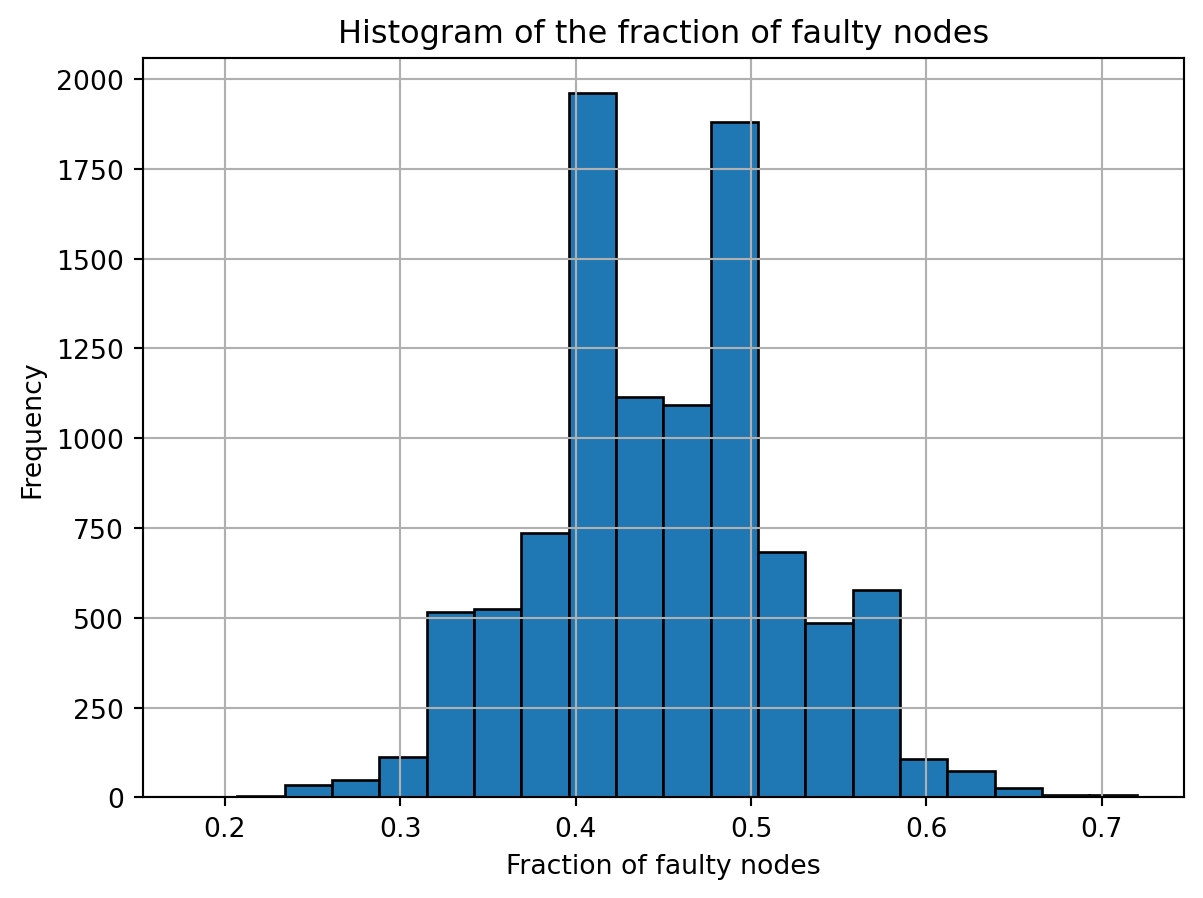
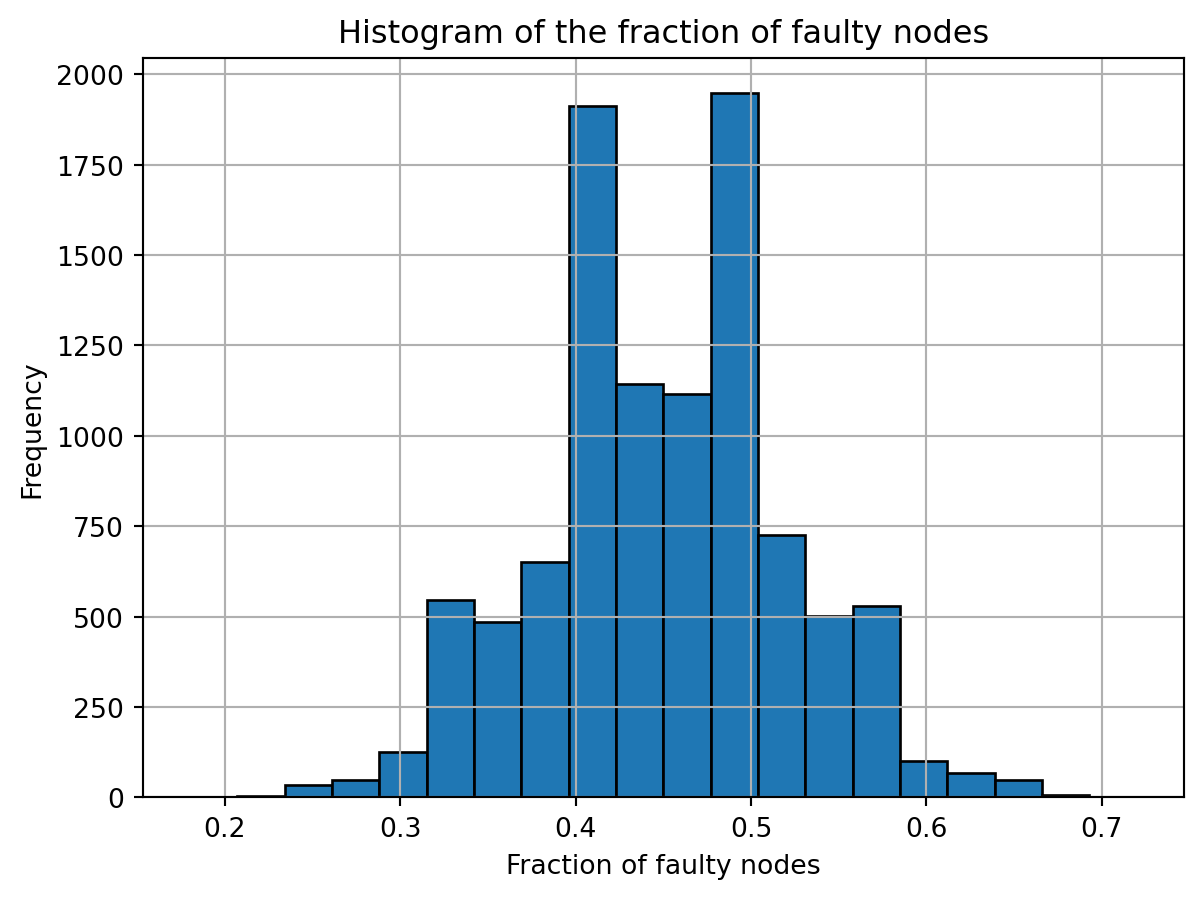
Add files via upload

diff --git a/05-LongestChain.html b/05-LongestChain.html
@@ -630,7 +630,7 @@ Case ii) is essentially a generalization of case i): suppose that the integer $K
 </ul>
 <p>Can we turn this “on expectation” statement into a “with high probability” statement? To gain some intuition, you are invited to experiment with different values of <span class="math inline">\alpha</span> and <span class="math inline">K</span>, using the Python code snippets below.</p>
 <p>To create one such leader sequence, use the following code:</p>
-<div id="76692a7b" class="cell" data-execution_count="1">
+<div id="a20cfba8" class="cell" data-execution_count="1">
 <details class="code-fold">
 <summary>Code</summary>
 <div class="sourceCode cell-code" id="cb2"><pre class="sourceCode python code-with-copy"><code class="sourceCode python"><span id="cb2-1"><a href="#cb2-1" aria-hidden="true" tabindex="-1"></a><span class="im">import</span> numpy <span class="im">as</span> np</span>
@@ -652,7 +652,7 @@ Case ii) is essentially a generalization of case i): suppose that the integer $K
 <span id="cb2-17"><a href="#cb2-17" aria-hidden="true" tabindex="-1"></a>    <span class="cf">return</span> samples</span></code><button title="Copy to Clipboard" class="code-copy-button"><i class="bi"></i></button></pre></div>
 </details>
 </div>
-<div id="b5e2f87b" class="cell" data-execution_count="2">
+<div id="1bf22ee8" class="cell" data-execution_count="2">
 <div class="sourceCode cell-code" id="cb3"><pre class="sourceCode python code-with-copy"><code class="sourceCode python"><span id="cb3-1"><a href="#cb3-1" aria-hidden="true" tabindex="-1"></a><span class="co"># Example usage:</span></span>
 <span id="cb3-2"><a href="#cb3-2" aria-hidden="true" tabindex="-1"></a>K <span class="op">=</span> <span class="dv">10</span>      <span class="co"># number of leaders</span></span>
 <span id="cb3-3"><a href="#cb3-3" aria-hidden="true" tabindex="-1"></a>alpha <span class="op">=</span> <span class="fl">0.45</span> <span class="co"># probability of leader being faulty</span></span>
@@ -661,12 +661,12 @@ Case ii) is essentially a generalization of case i): suppose that the integer $K
 <span id="cb3-6"><a href="#cb3-6" aria-hidden="true" tabindex="-1"></a></span>
 <span id="cb3-7"><a href="#cb3-7" aria-hidden="true" tabindex="-1"></a><span class="bu">print</span>(<span class="st">"Fraction of faulty leaders:"</span>, np.<span class="bu">sum</span>(samples)<span class="op">/</span>K)</span></code><button title="Copy to Clipboard" class="code-copy-button"><i class="bi"></i></button></pre></div>
 <div class="cell-output cell-output-stdout">
-<pre><code>Sampled leaders: [0 0 0 0 1 1 1 0 1 0]
+<pre><code>Sampled leaders: [0 1 0 1 1 0 1 0 0 0]
 Fraction of faulty leaders: 0.4</code></pre>
 </div>
 </div>
 <p>If you run the above code several times, you will see that the outcome varies a bit. The following code allows you to run the process <span class="math inline">T</span> times and create a histogram of the fractions of faulty nodes.</p>
-<div id="a20ae2d2" class="cell" data-execution_count="3">
+<div id="9f71f373" class="cell" data-execution_count="3">
 <details class="code-fold">
 <summary>Code</summary>
 <div class="sourceCode cell-code" id="cb5"><pre class="sourceCode python code-with-copy"><code class="sourceCode python"><span id="cb5-1"><a href="#cb5-1" aria-hidden="true" tabindex="-1"></a><span class="kw">def</span> sample_T_sequences(T, K, alpha):</span>
@@ -705,7 +705,7 @@ Fraction of faulty leaders: 0.4</code></pre>
   background-color: #ffffff;
 }
 </style>
-<div id="41cdeb9f" class="cell" data-execution_count="4">
+<div id="9829eb98" class="cell" data-execution_count="4">
 <div class="sourceCode cell-code" id="cb6"><pre class="sourceCode python code-with-copy"><code class="sourceCode python"><span id="cb6-1"><a href="#cb6-1" aria-hidden="true" tabindex="-1"></a><span class="co"># Example usage:</span></span>
 <span id="cb6-2"><a href="#cb6-2" aria-hidden="true" tabindex="-1"></a>T <span class="op">=</span> <span class="dv">10000</span>     <span class="co"># Number of leader sequences</span></span>
 <span id="cb6-3"><a href="#cb6-3" aria-hidden="true" tabindex="-1"></a>K <span class="op">=</span> <span class="dv">50</span>       <span class="co"># Number of leaders per sequence</span></span>
@@ -719,7 +719,7 @@ Fraction of faulty leaders: 0.4</code></pre>
 <span id="cb6-11"><a href="#cb6-11" aria-hidden="true" tabindex="-1"></a><span class="co"># Plot the histogram of fractions</span></span>
 <span id="cb6-12"><a href="#cb6-12" aria-hidden="true" tabindex="-1"></a>plot_histogram(fractions)</span></code><button title="Copy to Clipboard" class="code-copy-button"><i class="bi"></i></button></pre></div>
 <div class="cell-output cell-output-stdout">
-<pre><code>The fraction of leader sequences that are balanced is: 0.7131</code></pre>
+<pre><code>The fraction of leader sequences that are balanced is: 0.7155</code></pre>
 </div>
 <div class="cell-output cell-output-display">
 <div class="quarto-figure quarto-figure-center">

diff --git a/08-tullock-contest.html b/08-tullock-contest.html
@@ -365,7 +365,7 @@ g_2(x) = 2 \cdot \frac{x}{8/9 + x} - x
   background-color: #ffffff;
 }
 </style>
-<div id="0ca70f0b" class="cell" data-execution_count="1">
+<div id="691114fa" class="cell" data-execution_count="1">
 <details class="code-fold">
 <summary>Show code generating the plot below</summary>
 <div class="sourceCode cell-code" id="cb1"><pre class="sourceCode python code-with-copy"><code class="sourceCode python"><span id="cb1-1"><a href="#cb1-1" aria-hidden="true" tabindex="-1"></a><span class="im">import</span> numpy <span class="im">as</span> np</span>
@@ -643,7 +643,7 @@ Exercise 8.7
   background-color: #ffffff;
 }
 </style>
-<div id="789fa21b" class="cell" data-execution_count="2">
+<div id="514d6ee5" class="cell" data-execution_count="2">
 <details class="code-fold">
 <summary>Show code for executing best response dynamics</summary>
 <div class="sourceCode cell-code" id="cb3"><pre class="sourceCode python code-with-copy"><code class="sourceCode python"><span id="cb3-1"><a href="#cb3-1" aria-hidden="true" tabindex="-1"></a><span class="im">import</span> numpy <span class="im">as</span> np</span>
@@ -784,7 +784,7 @@ Exercise 8.8
 <span id="cb5-10"><a href="#cb5-10" aria-hidden="true" tabindex="-1"></a>    - Compute best response of miner i = t (mod n)</span>
 <span id="cb5-11"><a href="#cb5-11" aria-hidden="true" tabindex="-1"></a>    - Update value mu_i with the computed best response</span></code><button title="Copy to Clipboard" class="code-copy-button"><i class="bi"></i></button></pre></div>
 <p>In general, best response dynamics are not guaranteed to converge to an (<span class="math inline">\epsilon</span>-)PNE. This means that the while-loop in the pseudo-code above is not guaranteed to terminate. Let us look at such an example with two miners and <span class="math inline">\epsilon = 0</span>.</p>
-<div id="92a763aa" class="cell" data-execution_count="3">
+<div id="5bd35126" class="cell" data-execution_count="3">
 <div class="sourceCode cell-code" id="cb6"><pre class="sourceCode python code-with-copy"><code class="sourceCode python"><span id="cb6-1"><a href="#cb6-1" aria-hidden="true" tabindex="-1"></a><span class="co"># Weight vector</span></span>
 <span id="cb6-2"><a href="#cb6-2" aria-hidden="true" tabindex="-1"></a>w <span class="op">=</span> np.array([<span class="fl">0.1</span>, <span class="dv">1</span>])</span>
 <span id="cb6-3"><a href="#cb6-3" aria-hidden="true" tabindex="-1"></a></span>
@@ -915,7 +915,7 @@ Exercise 8.11
   background-color: #ffffff;
 }
 </style>
-<div id="28b6086b" class="cell" data-execution_count="4">
+<div id="25422602" class="cell" data-execution_count="4">
 <details class="code-fold">
 <summary>Show code for best response dynamics with potential function values</summary>
 <div class="sourceCode cell-code" id="cb8"><pre class="sourceCode python code-with-copy"><code class="sourceCode python"><span id="cb8-1"><a href="#cb8-1" aria-hidden="true" tabindex="-1"></a><span class="im">import</span> numpy <span class="im">as</span> np</span>
@@ -1149,7 +1149,7 @@ Exercise 8.16
   background-color: #ffffff;
 }
 </style>
-<div id="41f0e748" class="cell" data-execution_count="5">
+<div id="9c836f0e" class="cell" data-execution_count="5">
 <details class="code-fold">
 <summary>Show code for solving maximization problem</summary>
 <div class="sourceCode cell-code" id="cb10"><pre class="sourceCode python code-with-copy"><code class="sourceCode python"><span id="cb10-1"><a href="#cb10-1" aria-hidden="true" tabindex="-1"></a><span class="im">import</span> numpy <span class="im">as</span> np</span>

diff --git a/06-ProofofWork.html b/06-ProofofWork.html
@@ -328,14 +328,14 @@ window.Quarto = {
 <h2 data-number="6.3" class="anchored" data-anchor-id="sha-256"><span class="header-section-number">6.3</span> SHA-256</h2>
 <p>Here we give a brief illustration of how hashing works. We will use as example the SHA-256 hash function. SHA stands for Secure Hash Algorithm. The number 256 refers to the number of bits of the output.</p>
 <p>We will use the python <code>hashlib</code> module, which we first need to import.</p>
-<div id="5e4c273b" class="cell" data-execution_count="1">
+<div id="0b62a2b1" class="cell" data-execution_count="1">
 <details class="code-fold">
 <summary>Code</summary>
 <div class="sourceCode cell-code" id="cb1"><pre class="sourceCode python code-with-copy"><code class="sourceCode python"><span id="cb1-1"><a href="#cb1-1" aria-hidden="true" tabindex="-1"></a><span class="im">import</span> hashlib</span></code><button title="Copy to Clipboard" class="code-copy-button"><i class="bi"></i></button></pre></div>
 </details>
 </div>
 <p>Here is an example of how to use SHA256 to hash a short message. The input message will be ``Decentralized finance is cool!’’ and the output is a bitstring of length 256.</p>
-<div id="64f6a611" class="cell" data-execution_count="2">
+<div id="aa9d6024" class="cell" data-execution_count="2">
 <div class="sourceCode cell-code" id="cb2"><pre class="sourceCode python code-with-copy"><code class="sourceCode python"><span id="cb2-1"><a href="#cb2-1" aria-hidden="true" tabindex="-1"></a><span class="co"># The message to hash</span></span>
 <span id="cb2-2"><a href="#cb2-2" aria-hidden="true" tabindex="-1"></a>message <span class="op">=</span> <span class="st">"Decentralized finance is cool!"</span></span>
 <span id="cb2-3"><a href="#cb2-3" aria-hidden="true" tabindex="-1"></a></span>
@@ -355,7 +355,7 @@ Length of the bitstring: 256</code></pre>
 </div>
 </div>
 <p>Let us now investigate the key property of hash functions: they look like a random function. In particular, this implies that it is hard to predict the output of the function. To illustrate this, let us hash a second message that is very similar to the first: ``Decentralized finance is cool!!!’’</p>
-<div id="40dbdb21" class="cell" data-execution_count="3">
+<div id="7270ec00" class="cell" data-execution_count="3">
 <details class="code-fold">
 <summary>Code</summary>
 <div class="sourceCode cell-code" id="cb4"><pre class="sourceCode python code-with-copy"><code class="sourceCode python"><span id="cb4-1"><a href="#cb4-1" aria-hidden="true" tabindex="-1"></a><span class="co">### Second message </span></span>
@@ -378,7 +378,7 @@ Length of the bitstring: 256</code></pre>
 </div>
 </div>
 <p>If you compare the two strings, you will notice some differences right away. How different are the two strings? If the hash function assigns a random output to every input, then you would expect the two bitstrings to differ in roughly half their entries. Let us use python to count the number of different entries in the two strings.</p>
-<div id="299361f0" class="cell" data-execution_count="4">
+<div id="4a3dc348" class="cell" data-execution_count="4">
 <details class="code-fold">
 <summary>Code</summary>
 <div class="sourceCode cell-code" id="cb6"><pre class="sourceCode python code-with-copy"><code class="sourceCode python"><span id="cb6-1"><a href="#cb6-1" aria-hidden="true" tabindex="-1"></a><span class="kw">def</span> count_differences(bitstring1, bitstring2):</span>

diff --git a/09-selfish-mining.html b/09-selfish-mining.html
@@ -972,7 +972,7 @@ Figure&nbsp;9.25: Relative reward of pool when using selfish mining.
 <p>This leads us to the main theorem, showing that indeed also minority pools of size at least <span class="math inline">1/3</span> can benefit from selfish mining.</p>
 <div id="thm-selfish-mining" class="theorem">
 <p><span class="theorem-title"><strong>Theorem 9.2 (Selfish mining)</strong></span> For any mining pool of size <span class="math inline">0 &lt; \alpha &lt; \frac{1}{2}</span>, the expected relative reward of the selfish mining strategy is <span class="math display">
-\frac{4\alpha^2(1-\alpha)^2 - \alpha^3}{1-\alpha(1 + (2-\alpha)\alpha)}
+\frac{4\alpha^2(1-\alpha)^2 - \alpha^3}{1-\alpha(1 + (2-\alpha)\alpha)}.
 </span> The above quantity is greater than <span class="math inline">\alpha</span>, the expected relative reward when the pool also mines honestly, if and only if <span class="math inline">\frac{1}{3} &lt; \alpha &lt; \frac{1}{2}</span>.</p>
 </div>
 </section>
